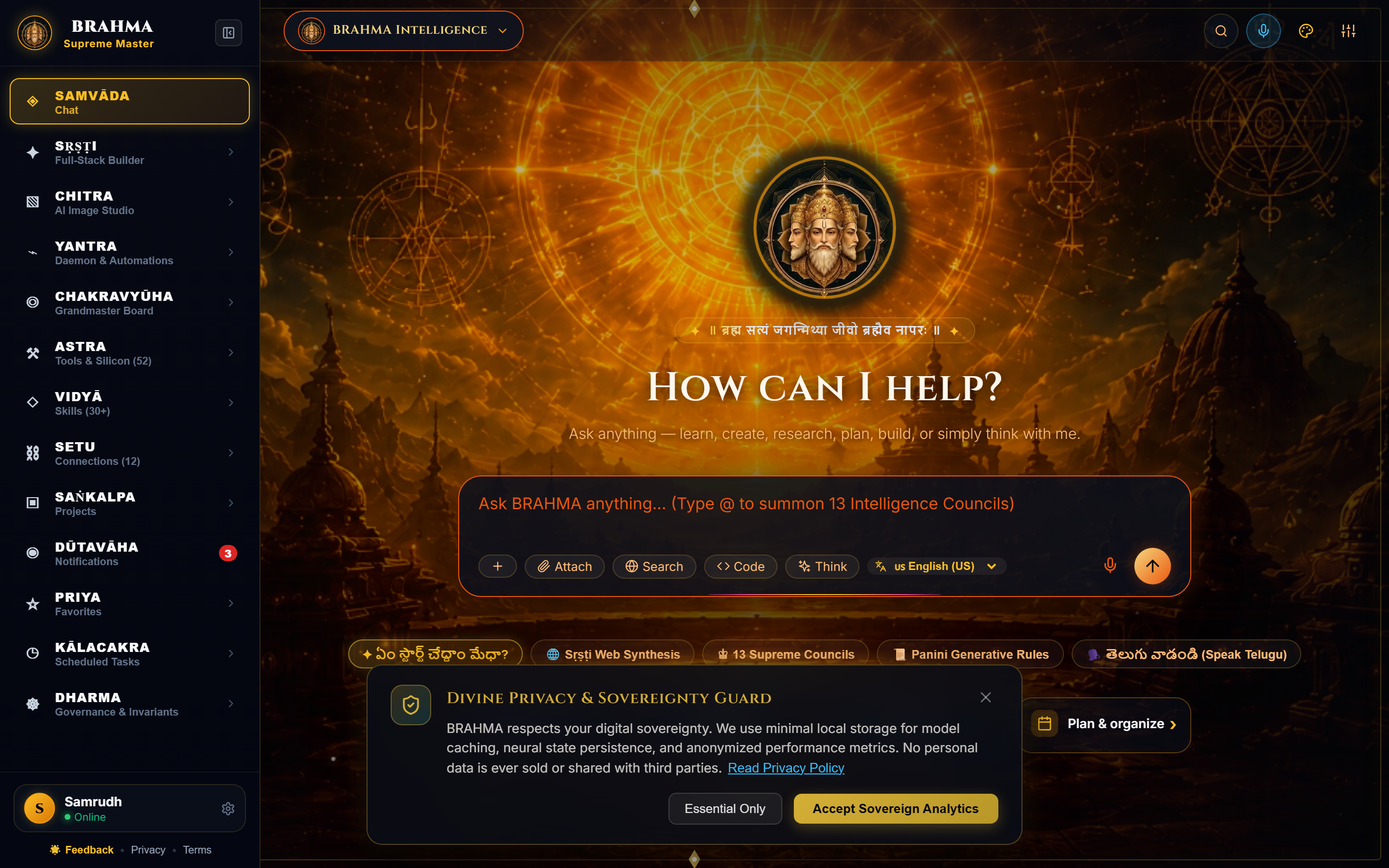
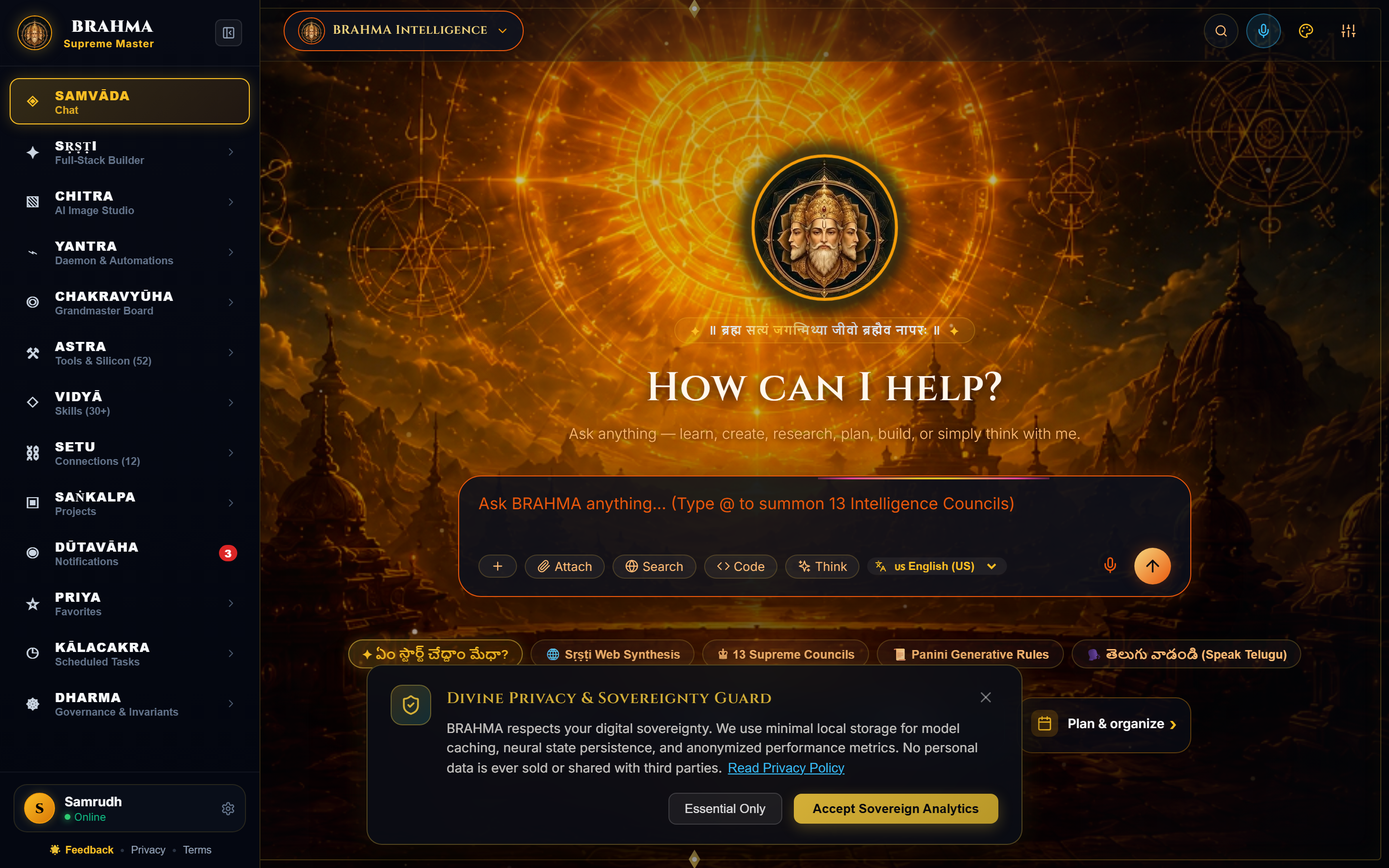
feat(themes): perfectly center Brahma mandala seal into the focal rings of Mayura peacock, Surya sun wheel, Cyberpunk Kashi, and Himalaya Zen artworks

diff --git a/src/styles/index.css b/src/styles/index.css
@@ -216,36 +216,49 @@ html, body, #root {
 .living-bg-image {
   position: absolute;
   inset: -30px;
-  background-color: #000000;
-  background-image: none;
+  background-image:
+    linear-gradient(180deg, rgba(3,7,18,0.42) 0%, rgba(3,7,18,0.18) 35%, rgba(3,7,18,0.85) 100%),
+    url('/assets/brahma_temple_bg.jpg');
+  background-size: cover;
+  background-position: center 22%;
+  filter: contrast(1.08) saturate(1.15) brightness(0.96);
   will-change: transform;
+  transition: background-image 0.5s cubic-bezier(0.4, 0, 0.2, 1), transform 0.12s cubic-bezier(0.2,0,0.2,1);
 }
 
-/* 1. Mayūra Teal Theme (Clean Black, Waiting for New Artwork) */
+/* 1. Mayūra Teal Theme (Peacock, Emerald & Sri Yantra - Perfectly Centered on Peacock Fan) */
 [data-theme='teal'] .living-bg-image {
-  background-color: #000000 !important;
-  background-image: none !important;
+  background-image:
+    linear-gradient(180deg, rgba(2,16,20,0.44) 0%, rgba(2,16,20,0.18) 35%, rgba(2,16,20,0.88) 100%),
+    url('/assets/mayura_peacock_bg.jpg');
+  background-position: center 22%;
+  filter: contrast(1.08) saturate(1.18) brightness(0.96);
 }
 
 /* 2. Cyberpunk Kashi Theme (Neon Violet & Electric Pink) */
 [data-theme='cyberpunk'] .living-bg-image {
   background-image:
-    linear-gradient(180deg, rgba(10,3,20,0.54) 0%, rgba(10,3,20,0.22) 35%, rgba(10,3,20,0.90) 100%),
+    linear-gradient(180deg, rgba(10,3,20,0.48) 0%, rgba(10,3,20,0.18) 35%, rgba(10,3,20,0.90) 100%),
     url('/assets/cyberpunk_kashi_bg.jpg');
+  background-position: center 25%;
   filter: contrast(1.12) saturate(1.22) brightness(0.96);
 }
 
-/* 3. Sūrya Solarized Theme (Clean Black, Waiting for New Artwork) */
+/* 3. Sūrya Solarized / Cosmic Gold Theme (Sacred Golden Sun Temple - Centered on Solar Mandala) */
 [data-theme='surya'] .living-bg-image {
-  background-color: #000000 !important;
-  background-image: none !important;
+  background-image:
+    linear-gradient(180deg, rgba(20,5,2,0.42) 0%, rgba(20,5,2,0.16) 35%, rgba(20,5,2,0.88) 100%),
+    url('/assets/surya_gold_bg.jpg');
+  background-position: center 22%;
+  filter: contrast(1.10) saturate(1.20) brightness(0.96);
 }
 
 /* 4. Himālaya Zen Theme (Snow Mountains, Kedarnath & Midnight Blue) */
 [data-theme='zen'] .living-bg-image {
   background-image:
-    linear-gradient(180deg, rgba(2,6,23,0.50) 0%, rgba(2,6,23,0.20) 35%, rgba(2,6,23,0.88) 100%),
+    linear-gradient(180deg, rgba(2,6,23,0.45) 0%, rgba(2,6,23,0.16) 35%, rgba(2,6,23,0.88) 100%),
     url('/assets/himalaya_zen_bg.jpg');
+  background-position: center 25%;
   filter: contrast(1.06) saturate(1.10) brightness(0.96);
 }
 
